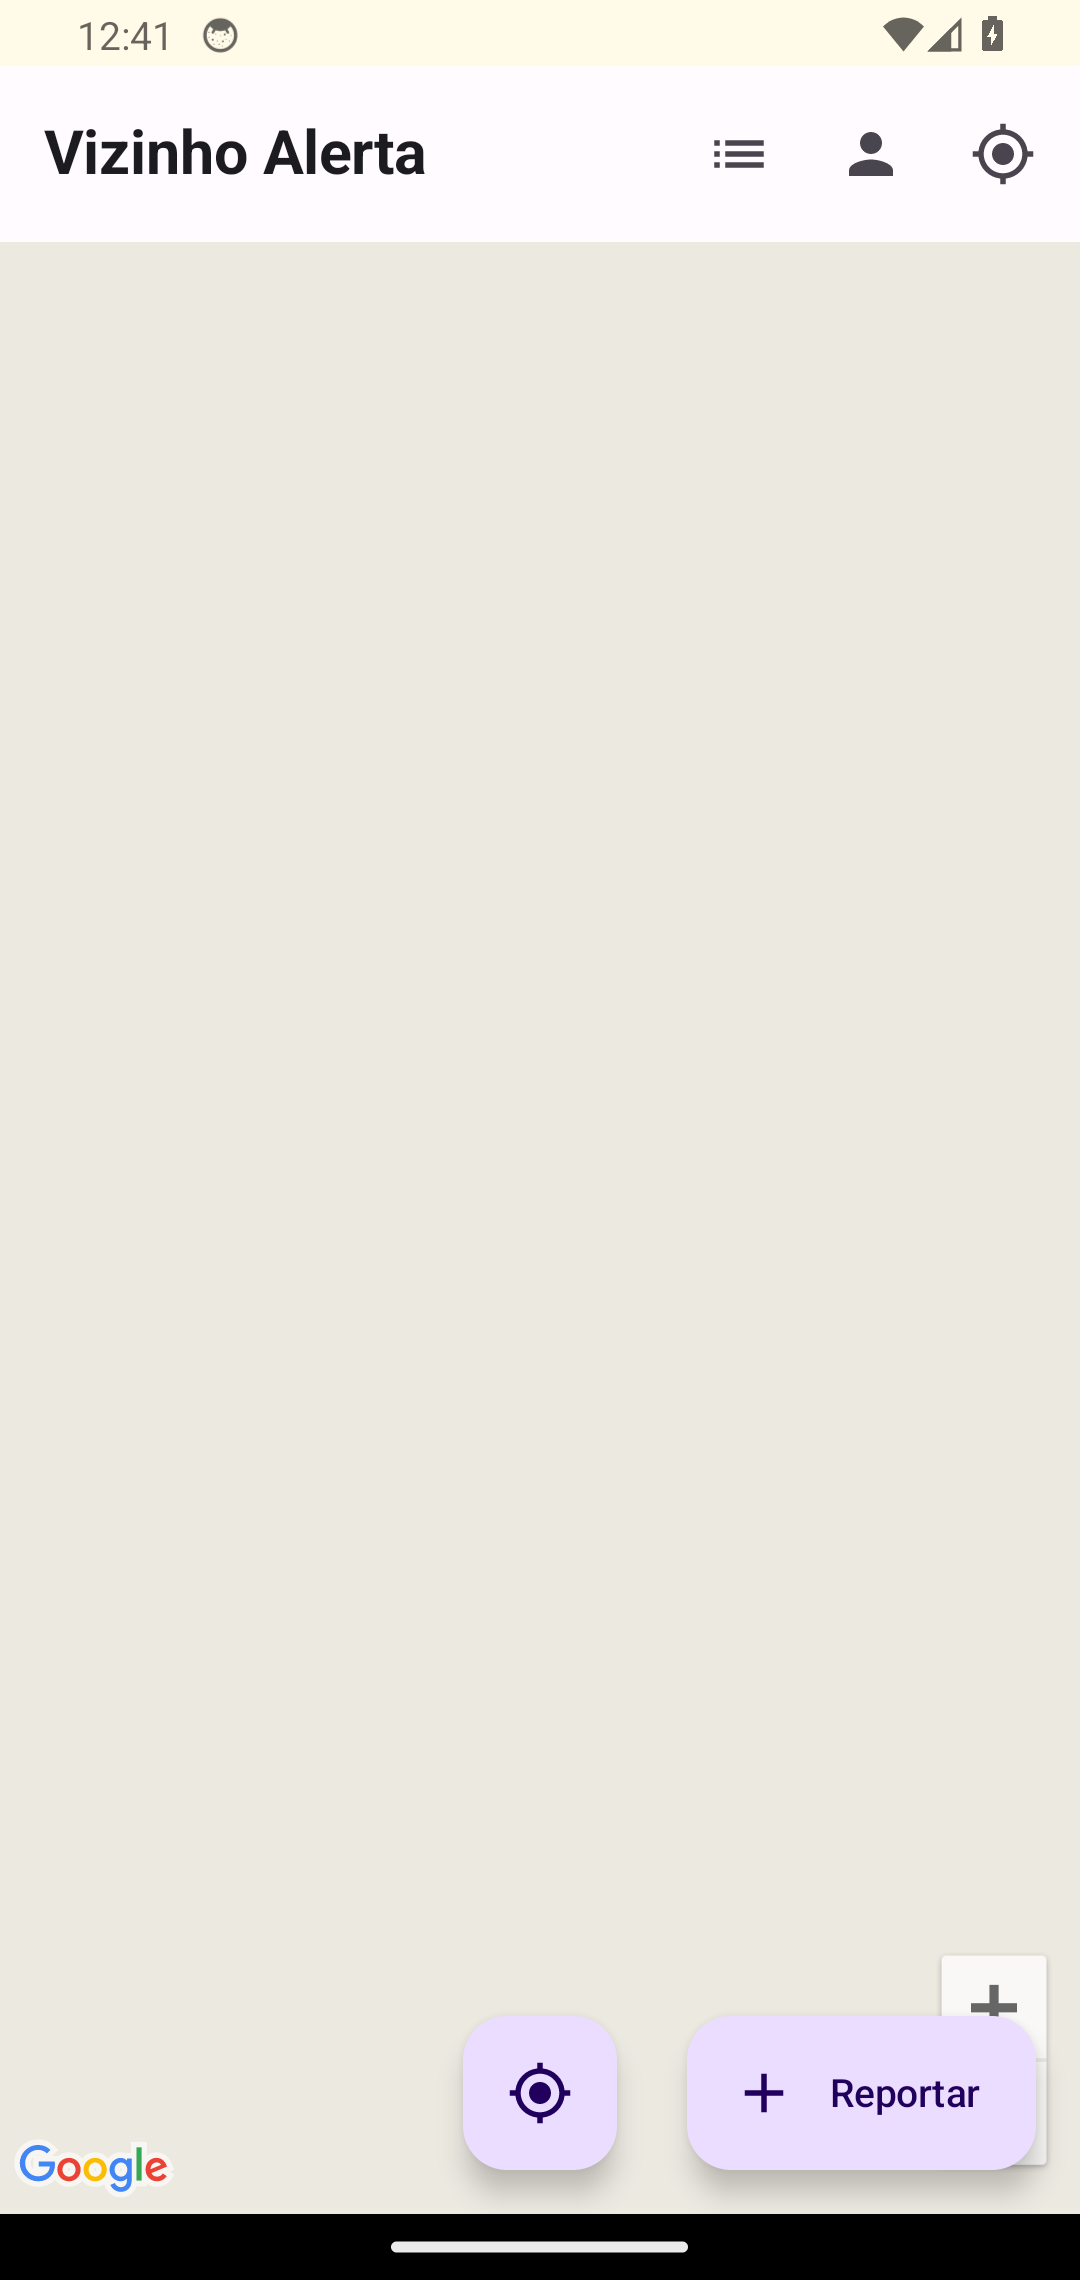
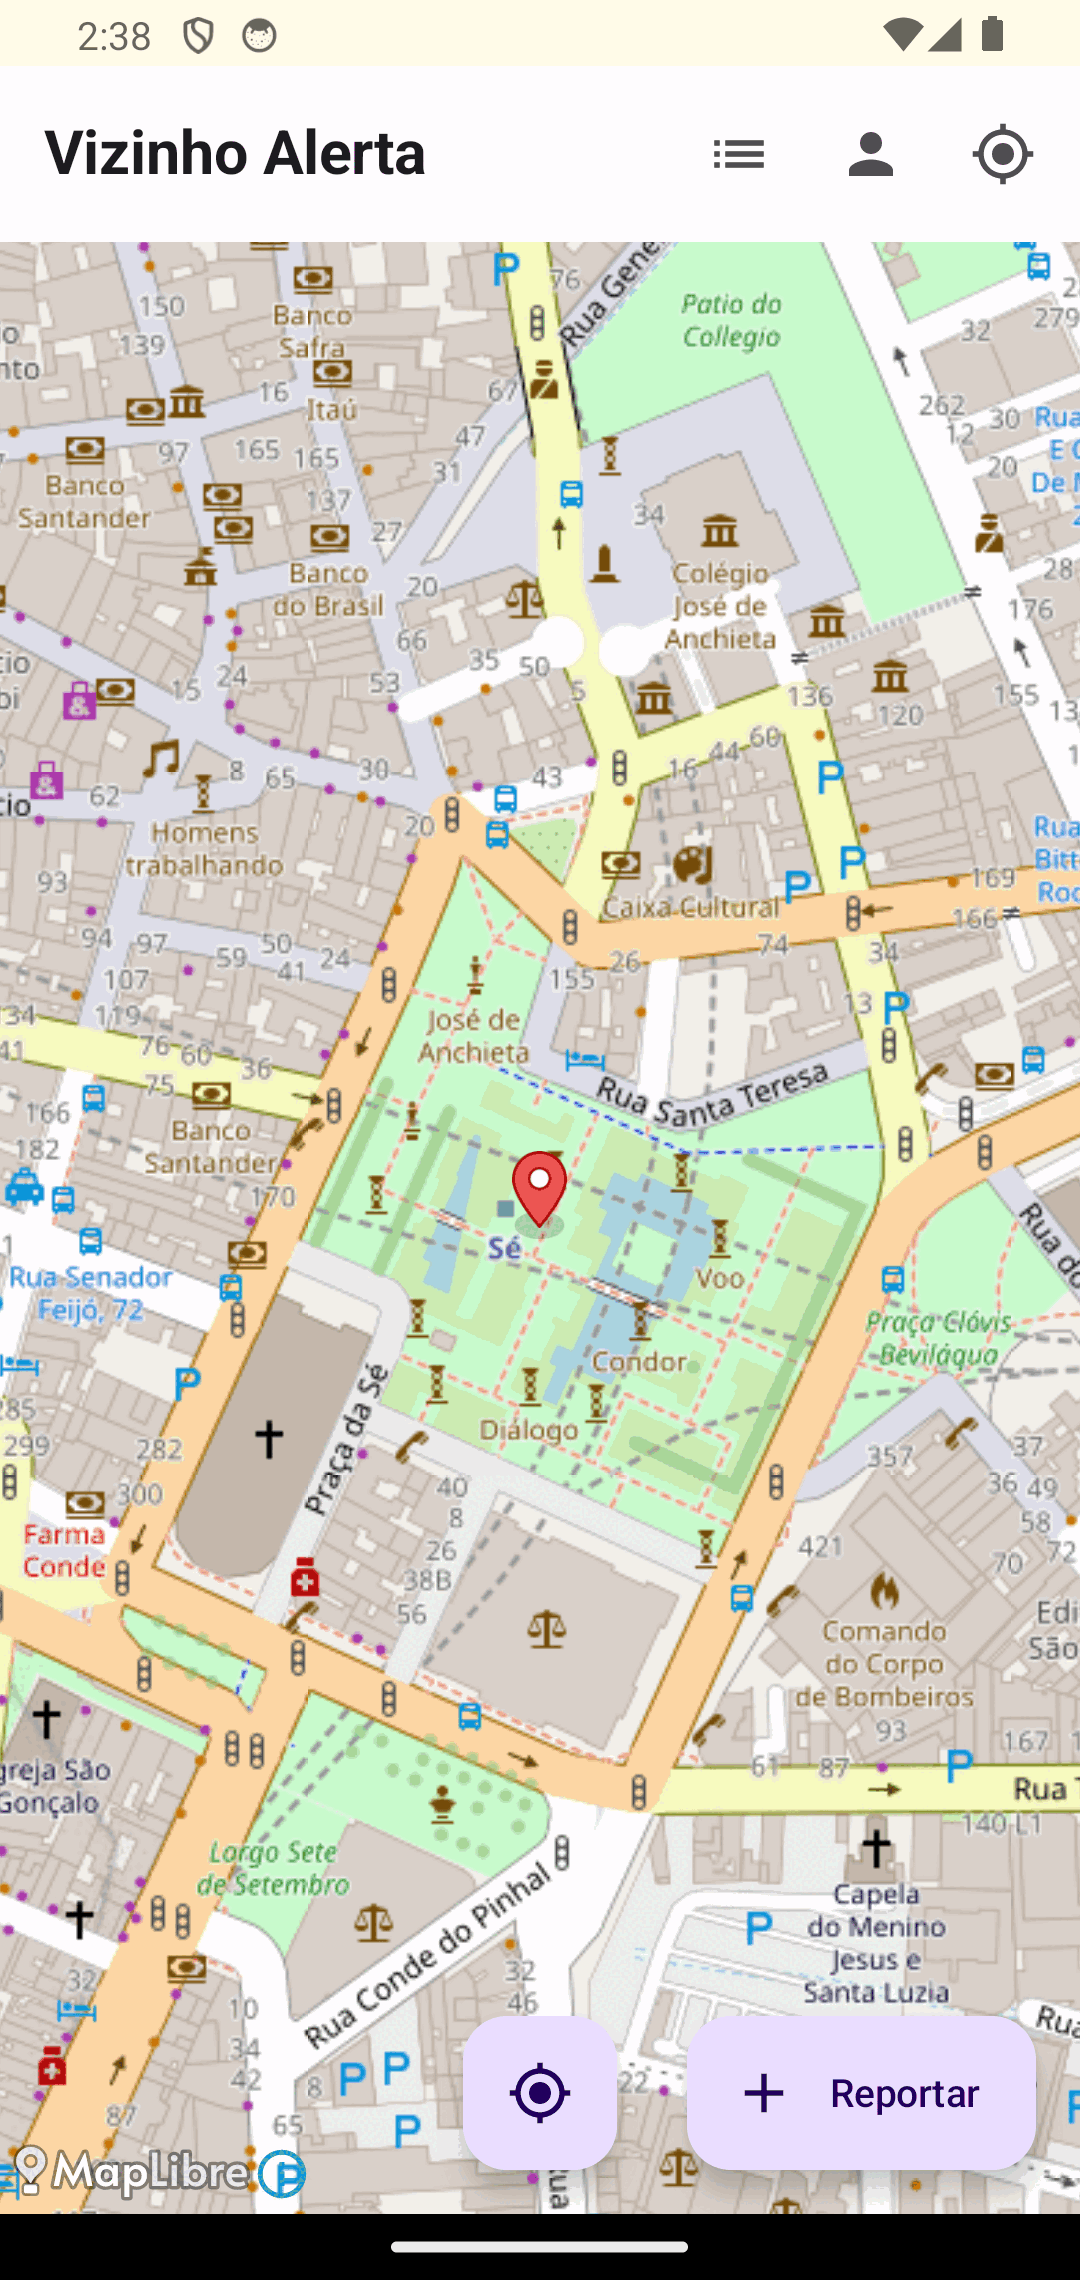
fix: usa mapa OSM no debug e atualiza captura do mapa

diff --git a/app/src/debug/java/com/vizinhoalerta/ui/mapa/MapaBackend.kt b/app/src/debug/java/com/vizinhoalerta/ui/mapa/MapaBackend.kt
@@ -1,0 +1,101 @@
+package com.vizinhoalerta.ui.mapa
+
+import androidx.compose.foundation.layout.fillMaxSize
+import androidx.compose.runtime.Composable
+import androidx.compose.runtime.DisposableEffect
+import androidx.compose.runtime.LaunchedEffect
+import androidx.compose.runtime.remember
+import androidx.compose.ui.Modifier
+import androidx.compose.ui.platform.LocalContext
+import androidx.compose.ui.platform.LocalLifecycleOwner
+import androidx.compose.ui.viewinterop.AndroidView
+import androidx.lifecycle.Lifecycle
+import androidx.lifecycle.LifecycleEventObserver
+import com.vizinhoalerta.model.Ocorrencia
+import org.maplibre.android.MapLibre
+import org.maplibre.android.WellKnownTileServer
+import org.maplibre.android.annotations.MarkerOptions
+import org.maplibre.android.camera.CameraPosition
+import org.maplibre.android.geometry.LatLng
+import org.maplibre.android.maps.MapView
+import org.maplibre.android.maps.Style
+
+/** Debug: mapa OpenStreetMap via MapLibre, sem API key do Google. */
+internal object MapaBackend {
+    private val OSM_STYLE = """
+        {"version":8,"sources":{"osm":{"type":"raster","tiles":["https://tile.openstreetmap.org/{z}/{x}/{y}.png"],"tileSize":256,"attribution":"© OpenStreetMap contributors"}},"layers":[{"id":"osm","type":"raster","source":"osm"}]}
+    """.trimIndent()
+
+    @Composable
+    fun Content(
+        ocorrencias: List<Ocorrencia>,
+        userLocation: Pair<Double, Double>?,
+        centralizar: Int,
+        onOcorrenciaClick: (String) -> Unit
+    ) {
+        val context = LocalContext.current
+        val lifecycleOwner = LocalLifecycleOwner.current
+        val mapView = remember {
+            MapLibre.getInstance(context, null, WellKnownTileServer.MapLibre)
+            MapView(context).apply { onCreate(null) }
+        }
+
+        DisposableEffect(lifecycleOwner, mapView) {
+            val observer = LifecycleEventObserver { _, event ->
+                when (event) {
+                    Lifecycle.Event.ON_START -> mapView.onStart()
+                    Lifecycle.Event.ON_RESUME -> mapView.onResume()
+                    Lifecycle.Event.ON_PAUSE -> mapView.onPause()
+                    Lifecycle.Event.ON_STOP -> mapView.onStop()
+                    Lifecycle.Event.ON_DESTROY -> mapView.onDestroy()
+                    else -> Unit
+                }
+            }
+            lifecycleOwner.lifecycle.addObserver(observer)
+            onDispose {
+                lifecycleOwner.lifecycle.removeObserver(observer)
+                mapView.onDestroy()
+            }
+        }
+
+        AndroidView(factory = { mapView }, modifier = Modifier.fillMaxSize()) { view ->
+            view.getMapAsync { map ->
+                map.setStyle(Style.Builder().fromJson(OSM_STYLE)) {
+                    map.clear()
+                    ocorrencias.filter { it.lat != 0.0 && it.lng != 0.0 }.forEach { o ->
+                        map.addMarker(
+                            MarkerOptions()
+                                .position(LatLng(o.lat, o.lng))
+                                .title(o.tipo)
+                                .snippet(o.id)
+                        )
+                    }
+                    userLocation?.let { (lat, lng) ->
+                        map.addMarker(MarkerOptions().position(LatLng(lat, lng)).title("Minha localização"))
+                    }
+                    val alvo = userLocation ?: (-23.55052 to -46.633308)
+                    map.cameraPosition = CameraPosition.Builder()
+                        .target(LatLng(alvo.first, alvo.second))
+                        .zoom(if (userLocation != null) 16.0 else 13.0)
+                        .build()
+                }
+                map.setOnMarkerClickListener { marker ->
+                    val id = marker.snippet
+                    if (!id.isNullOrBlank()) onOcorrenciaClick(id)
+                    true
+                }
+            }
+        }
+
+        LaunchedEffect(centralizar, userLocation) {
+            if (centralizar > 0 && userLocation != null) {
+                mapView.getMapAsync { map ->
+                    map.cameraPosition = CameraPosition.Builder()
+                        .target(LatLng(userLocation.first, userLocation.second))
+                        .zoom(16.0)
+                        .build()
+                }
+            }
+        }
+    }
+}

diff --git a/app/src/main/java/com/vizinhoalerta/ui/mapa/MapaScreen.kt b/app/src/main/java/com/vizinhoalerta/ui/mapa/MapaScreen.kt
@@ -15,11 +15,6 @@ import androidx.compose.ui.graphics.Color
 import androidx.compose.ui.platform.LocalContext
 import androidx.compose.ui.text.font.FontWeight
 import androidx.compose.ui.unit.dp
-import com.google.android.gms.maps.model.LatLng
-import com.google.maps.android.compose.GoogleMap
-import com.google.maps.android.compose.Marker
-import com.google.maps.android.compose.MarkerState
-import com.google.maps.android.compose.rememberCameraPositionState
 import com.vizinhoalerta.data.AuthRepository
 import com.vizinhoalerta.data.OcorrenciaRepository
 import com.vizinhoalerta.service.LocalizacaoService
@@ -40,23 +35,16 @@ fun MapaScreen(
     val ocorrencias by ocorrenciaRepository.observarOcorrencias()
         .collectAsState(initial = emptyList())
 
-    var userLocation by remember { mutableStateOf<LatLng?>(null) }
+    var userLocation by remember { mutableStateOf<Pair<Double, Double>?>(null) }
     var loadingLocation by remember { mutableStateOf(true) }
-
-    val defaultPos = LatLng(-23.55052, -46.633308)
-    val cameraPositionState = rememberCameraPositionState {
-        position = com.google.android.gms.maps.model.CameraPosition.fromLatLngZoom(defaultPos, 13f)
-    }
+    var centralizar by remember { mutableIntStateOf(0) }
 
     LaunchedEffect(Unit) {
         LocalizacaoService.obterLocalizacaoAtualLatLng(
             context = context,
             onSuccess = { lat, lng ->
-                userLocation = LatLng(lat, lng)
+                userLocation = lat to lng
                 loadingLocation = false
-                cameraPositionState.position = com.google.android.gms.maps.model.CameraPosition.fromLatLngZoom(
-                    LatLng(lat, lng), 16f
-                )
             },
             onFailure = {
                 loadingLocation = false
@@ -109,44 +97,12 @@ fun MapaScreen(
                     CircularProgressIndicator()
                 }
             } else {
-                GoogleMap(
-                    modifier = Modifier.fillMaxSize(),
-                    cameraPositionState = cameraPositionState
-                ) {
-                    ocorrencias.forEach { ocorrencia ->
-                        if (ocorrencia.lat != 0.0 && ocorrencia.lng != 0.0) {
-                            Marker(
-                                state = MarkerState(position = LatLng(ocorrencia.lat, ocorrencia.lng)),
-                                title = ocorrencia.tipo,
-                                snippet = "${ocorrencia.bairro} — ${ocorrencia.status}",
-                                onClick = {
-                                    onOcorrenciaClick(ocorrencia.id)
-                                    true
-                                }
-                            )
-                        }
-                    }
-
-                    userLocation?.let { loc ->
-                        Marker(
-                            state = MarkerState(position = loc),
-                            title = "Minha localização",
-                            icon = com.google.android.gms.maps.model.BitmapDescriptorFactory.defaultMarker(
-                                com.google.android.gms.maps.model.BitmapDescriptorFactory.HUE_BLUE
-                            ),
-                            onClick = { false }
-                        )
-                    }
-                }
+                MapaBackend.Content(ocorrencias, userLocation, centralizar, onOcorrenciaClick)
             }
 
             if (userLocation != null) {
                 FloatingActionButton(
-                    onClick = {
-                        userLocation?.let { loc ->
-                            cameraPositionState.position = com.google.android.gms.maps.model.CameraPosition.fromLatLngZoom(loc, 16f)
-                        }
-                    },
+                    onClick = { centralizar++ },
                     modifier = Modifier
                         .align(Alignment.BottomCenter)
                         .padding(16.dp)

diff --git a/app/src/release/java/com/vizinhoalerta/ui/mapa/MapaBackend.kt b/app/src/release/java/com/vizinhoalerta/ui/mapa/MapaBackend.kt
@@ -1,0 +1,67 @@
+package com.vizinhoalerta.ui.mapa
+
+import androidx.compose.foundation.layout.fillMaxSize
+import androidx.compose.runtime.Composable
+import androidx.compose.runtime.LaunchedEffect
+import androidx.compose.ui.Modifier
+import com.google.android.gms.maps.model.BitmapDescriptorFactory
+import com.google.android.gms.maps.model.CameraPosition
+import com.google.android.gms.maps.model.LatLng
+import com.google.maps.android.compose.GoogleMap
+import com.google.maps.android.compose.Marker
+import com.google.maps.android.compose.MarkerState
+import com.google.maps.android.compose.rememberCameraPositionState
+import com.vizinhoalerta.model.Ocorrencia
+
+/** Release: Google Maps com a chave real do google-services.json. */
+internal object MapaBackend {
+    @Composable
+    fun Content(
+        ocorrencias: List<Ocorrencia>,
+        userLocation: Pair<Double, Double>?,
+        centralizar: Int,
+        onOcorrenciaClick: (String) -> Unit
+    ) {
+        val cameraPositionState = rememberCameraPositionState {
+            position = CameraPosition.fromLatLngZoom(LatLng(-23.55052, -46.633308), 13f)
+        }
+
+        LaunchedEffect(userLocation) {
+            userLocation?.let { (lat, lng) ->
+                cameraPositionState.position = CameraPosition.fromLatLngZoom(LatLng(lat, lng), 16f)
+            }
+        }
+        LaunchedEffect(centralizar) {
+            if (centralizar > 0 && userLocation != null) {
+                cameraPositionState.position = CameraPosition.fromLatLngZoom(
+                    LatLng(userLocation.first, userLocation.second), 16f
+                )
+            }
+        }
+
+        GoogleMap(
+            modifier = Modifier.fillMaxSize(),
+            cameraPositionState = cameraPositionState
+        ) {
+            ocorrencias.filter { it.lat != 0.0 && it.lng != 0.0 }.forEach { o ->
+                Marker(
+                    state = MarkerState(position = LatLng(o.lat, o.lng)),
+                    title = o.tipo,
+                    snippet = "${o.bairro} — ${o.status}",
+                    onClick = {
+                        onOcorrenciaClick(o.id)
+                        true
+                    }
+                )
+            }
+            userLocation?.let { (lat, lng) ->
+                Marker(
+                    state = MarkerState(position = LatLng(lat, lng)),
+                    title = "Minha localização",
+                    icon = BitmapDescriptorFactory.defaultMarker(BitmapDescriptorFactory.HUE_BLUE),
+                    onClick = { false }
+                )
+            }
+        }
+    }
+}
